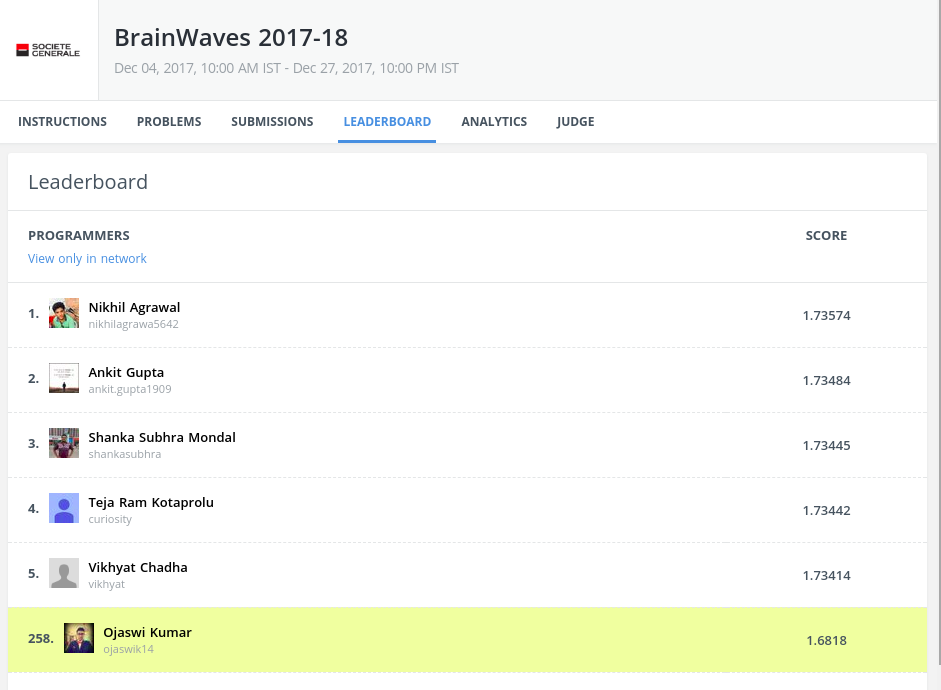
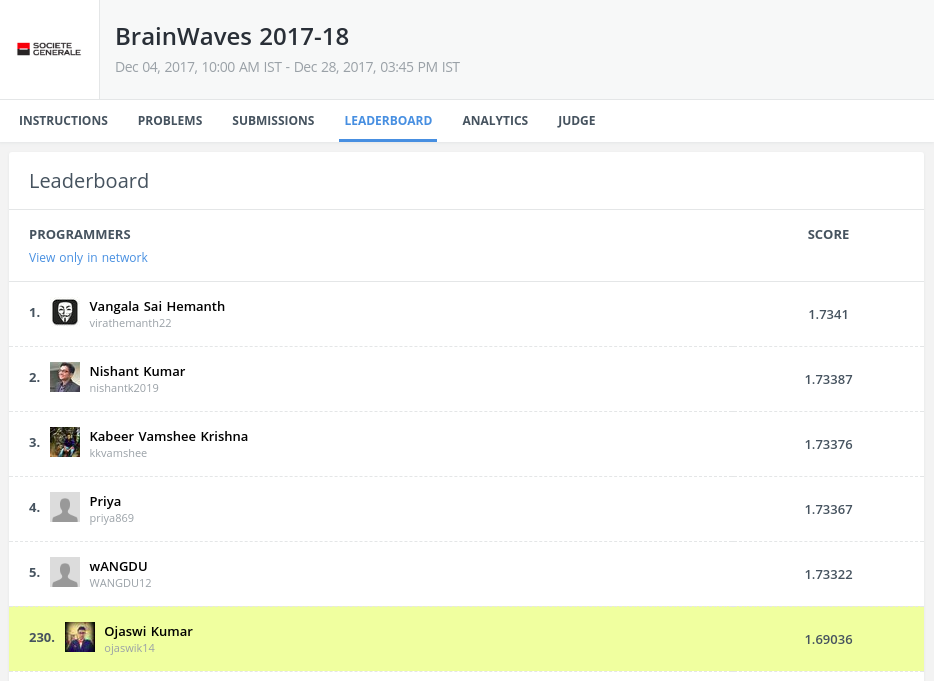
Updated Rank and image

diff --git a/README.md b/README.md
@@ -1,5 +1,5 @@
 # BrainWaves-Datathon-2017-Submission
 This repository contains my iPython notebooks developed for the Regression and Classification Challenge.
-My final rank was 258/ 4500 + Participants.
+My final rank was 230/ 4500 + Participants.
 
 ![Leaderboard Position](images/position.png?raw=true)
